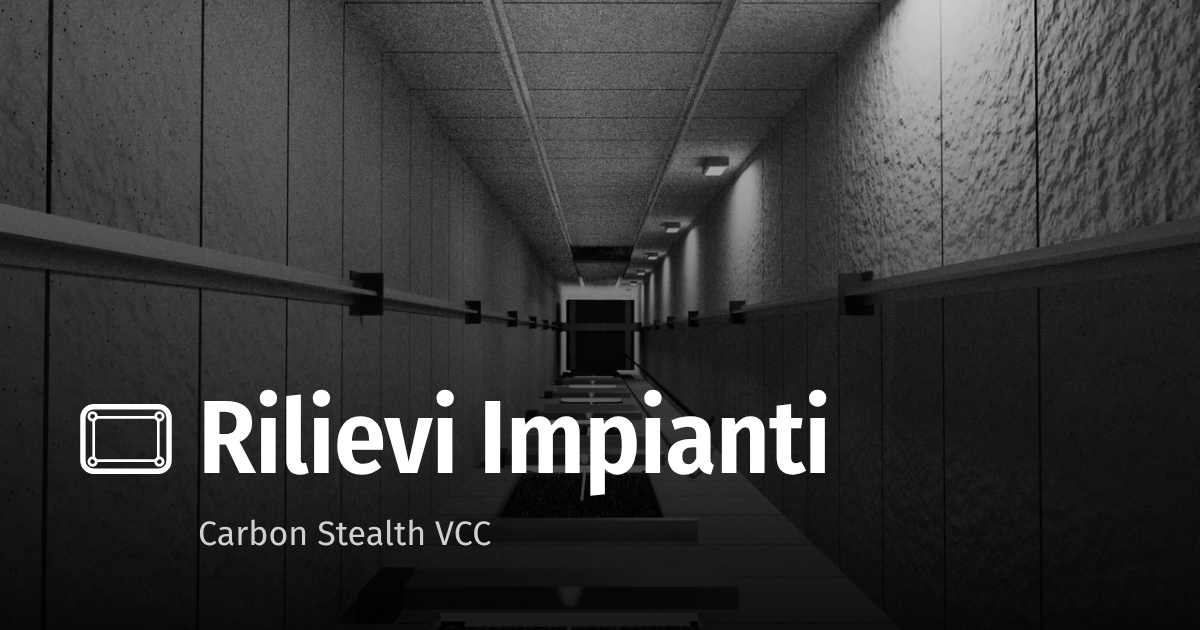
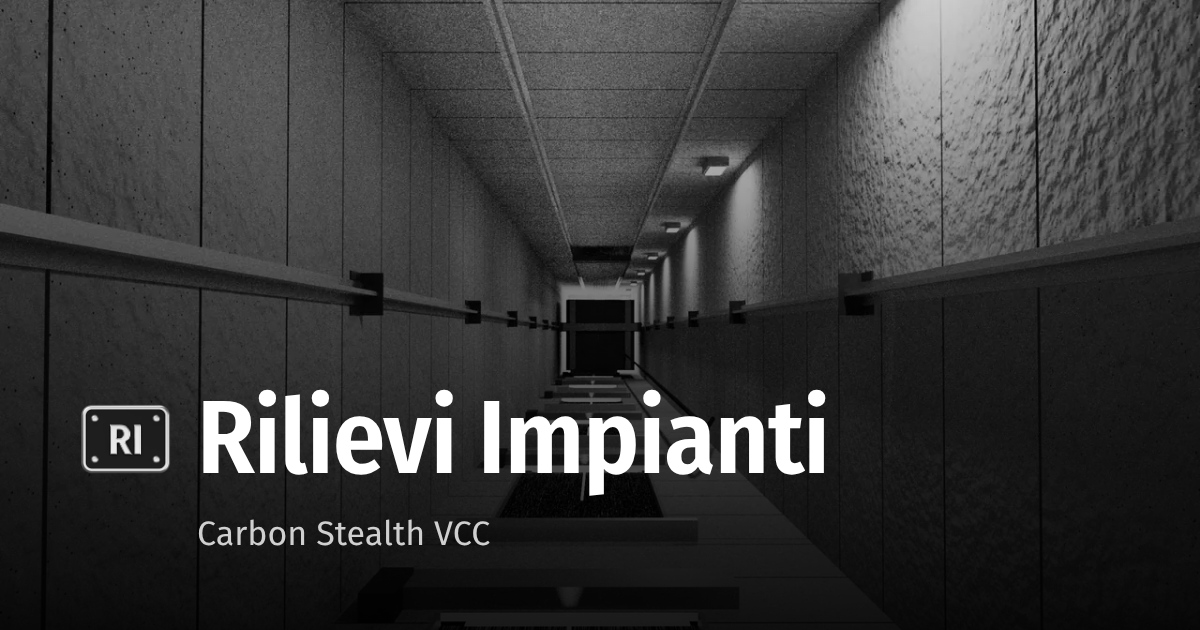
feat(rilievi): нова марка — табела „RI“, рендерирана като снимка (не SVG)
Собственикът (31 октомври 2026): „un logo (non svg) da mettere nello header
e nel footer … per il livello enterprise A+++“. От три концепции избра
„Targa nera“, името остава текст.

- scripts/logo/logo.py: табела като тази на асансьора — стоманена рамка
  около черен сатенен емайл, четири винта, релефни букви „RI“ (Fira Sans
  Condensed Bold) — карта на височините → мрежа → Mitsuba (като снимките на
  витрината), правоъгълна камера, прозрачен фон.
- scripts/logo/encode.mjs (`npm run brand:logo`): WebP с алфа за 36 и 48 px
  (1x/2x/3x) и иконките favicon-32/192.png.
- brandmark.ejs е `<img>` с srcset: 36 px в лентите и на входа, 48 px в
  долната част на витрината; името до нея остава текст и следва темите.
- Иконката на раздела — PNG от същия рендер (favicon.svg е махнат,
  /favicon.ico → favicon-32.png); og.png и apple-touch-icon.png — с новата
  марка (`npm run brand:images`).
- tests/marchio.test.ts: всеки файл от srcset в размера си, с прозрачност,
  без излишни; иконките — квадратни, с празни ъгли.

Claude-Session: https://claude.ai/code/session_01DzVwt4nEBuTWzpC9Lqg554

diff --git a/rilievi/tests/marchio.test.ts b/rilievi/tests/marchio.test.ts
@@ -1,0 +1,69 @@
+// The brand mark (the owner, 31 October 2026 — a picture, not an SVG): the plate rendered by scripts/logo,
+// in the bars, at the sign-in and in the footer of the landing, 1x/2x/3x; the tab icons from the same
+// render. Every file the partial asks for exists at the size it says, with transparency around the plate.
+import assert from 'node:assert/strict';
+import { existsSync, readdirSync } from 'node:fs';
+import { join } from 'node:path';
+import { describe, it } from 'node:test';
+import ejs from 'ejs';
+import sharp from 'sharp';
+
+const ROOT = join(import.meta.dirname, '..');
+const PUBLIC = join(ROOT, 'public');
+const PARTIAL = join(ROOT, 'views', 'partials', 'brandmark.ejs');
+
+/** The file on disk behind a `/static/…?v=` address. */
+const fileOf = (address: string): string =>
+  join(PUBLIC, address.replace(/^\/static\//, '').replace(/\?.*$/, ''));
+
+const render = (locals: Record<string, unknown>): Promise<string> =>
+  ejs.renderFile(PARTIAL, { v: 'test', ...locals });
+
+describe('the brand mark', () => {
+  for (const [locals, height] of [
+    [{}, 36],
+    [{ marchio: 48 }, 48],
+    [{ marchio: 'anything else' }, 36],
+  ] as const) {
+    it(`is a ${height} px picture with every density on disk (${JSON.stringify(locals)})`, async () => {
+      const html = await render(locals);
+      assert.match(html, /^<img class="brand__mark[^"]*" /);
+      assert.ok(!/<svg/.test(html), 'not an SVG');
+      assert.match(
+        html,
+        new RegExp(`width="${Math.round(height * 1.3)}" height="${height}" alt=""`),
+      );
+      const addresses = [
+        html.match(/ src="([^"]+)"/)![1]!,
+        ...html
+          .match(/ srcset="([^"]+)"/)![1]!
+          .split(', ')
+          .map((part) => part.split(' ')[0]!),
+      ];
+      assert.equal(addresses.length, 3);
+      for (const [i, address] of addresses.entries()) {
+        const file = fileOf(address);
+        assert.ok(existsSync(file), `${file} is missing: npm run brand:logo`);
+        const meta = await sharp(file).metadata();
+        assert.equal(meta.height, height * (i + 1), file);
+        assert.equal(meta.width, Math.round(height * (i + 1) * 1.3), file);
+        assert.ok(meta.hasAlpha, `${file}: no transparency`);
+      }
+    });
+  }
+
+  it('leaves no file in public/img/brand that the partial does not ask for', () => {
+    const asked = [36, 72, 108, 48, 96, 144].map((h) => `marchio-${h}.webp`).sort();
+    assert.deepEqual(readdirSync(join(PUBLIC, 'img', 'brand')).sort(), asked);
+  });
+
+  it('gives the tab icons from the same render: square, transparent, corners empty', async () => {
+    for (const size of [32, 192]) {
+      const file = join(PUBLIC, 'img', `favicon-${size}.png`);
+      const { data, info } = await sharp(file).raw().toBuffer({ resolveWithObject: true });
+      assert.deepEqual([info.width, info.height, info.channels], [size, size, 4], file);
+      assert.equal(data[3], 0, `${file}: the corner is not transparent`);
+    }
+    assert.ok(!existsSync(join(PUBLIC, 'img', 'favicon.svg')), 'the old SVG icon is gone');
+  });
+});

diff --git a/rilievi/public/css/base.css b/rilievi/public/css/base.css
@@ -194,15 +194,14 @@ mark {
   height: 20px;
 }
 
-/* Марката (табела с четири винта) — в лентата, на входа и във витрината. */
+/* Марката (табела „RI“, картинка — scripts/logo) — в лентата, на входа и във витрината. */
 .brand__mark {
   flex: none;
-  width: 34px;
-  height: 26px;
+  width: 47px;
+  height: 36px;
 }
 
-.brand__mark rect,
-.brand__mark circle {
-  fill: none;
-  stroke: currentColor;
+.brand__mark--48 {
+  width: 62px;
+  height: 48px;
 }

diff --git a/rilievi/src/routes/health.ts b/rilievi/src/routes/health.ts
@@ -17,5 +17,5 @@ healthRouter.get('/health', async (_req, res) => {
 });
 
 healthRouter.get('/favicon.ico', (_req, res) => {
-  res.redirect(301, '/static/img/favicon.svg');
+  res.redirect(301, '/static/img/favicon-32.png');
 });

diff --git a/rilievi/scripts/logo/logo.py b/rilievi/scripts/logo/logo.py
@@ -1,0 +1,216 @@
+"""The mark of Rilievi Impianti (the owner, 31 October 2026 — a picture, not an SVG; the "targa nera" chosen
+from three concepts): a lift data plate path-traced in Mitsuba 3, black and white, transparent background.
+
+The plate is a relief: a height field drawn with numpy and Pillow — a polished steel frame round a satin
+black enamel inlay, four slotted screws and the raised letters "RI" in Fira Sans Condensed Bold (OFL,
+from @fontsource) — turned into a mesh and lit like a product shot: a graded soft box behind the camera for
+the sheen of the flat steel, a key light from the top left and two rims for the edges. The camera is
+orthographic and straight on, so the outline is exact at every size.
+
+    cd scripts/render && .venv/bin/python ../logo/logo.py preview   # out/marchio.png, a few seconds
+    cd scripts/render && .venv/bin/python ../logo/logo.py final     # the master, 1331 × 1024, some minutes
+    npm run brand:logo                                               # (in rilievi/) master → public/img/brand
+
+Uses the venv of scripts/render (mitsuba, numpy, pillow — pinned in its requirements.txt).
+"""
+
+from __future__ import annotations
+
+import sys
+import tempfile
+import time
+from pathlib import Path
+
+import mitsuba as mi
+import numpy as np
+from PIL import Image, ImageDraw, ImageFont
+
+mi.set_variant('llvm_ad_mono')
+
+HERE = Path(__file__).resolve().parent
+OUT = HERE / 'out'
+FONT = HERE.parents[1] / 'node_modules/@fontsource/fira-sans-condensed/files/fira-sans-condensed-latin-700-normal.woff'
+T = mi.ScalarTransform4f
+# The plate is 1.3 : 1; the camera sees half a width of CAM on each side (the plate is 1 wide): 2 % margin.
+ASPECT = 1.3
+CAM = 0.51
+
+
+def smoothstep(e0: float, e1: float, x: np.ndarray) -> np.ndarray:
+    t = np.clip((x - e0) / (e1 - e0), 0, 1)
+    return t * t * (3 - 2 * t)
+
+
+def blur(a: np.ndarray, sigma: float) -> np.ndarray:
+    """Separable Gaussian blur, edges clamped."""
+    r = max(1, int(3 * sigma))
+    k = np.exp(-0.5 * (np.arange(-r, r + 1) / sigma) ** 2)
+    k /= k.sum()
+    out = a.astype(np.float32)
+    for axis in (0, 1):
+        padded = np.pad(out, [(r, r) if i == axis else (0, 0) for i in range(2)], mode='edge')
+        n = out.shape[axis]
+        out = sum(w * np.take(padded, np.arange(i, i + n), axis=axis) for i, w in enumerate(k))
+    return out.astype(np.float32)
+
+
+def letters(text: str, w: int, h: int, cx: float, cy: float, cap: float) -> np.ndarray:
+    """A 0..1 mask of `text` with a cap height of `cap` px, centred on (cx, cy); drawn 4x and reduced."""
+    s = 4
+    font = ImageFont.truetype(str(FONT), int(cap * s * 1.42))
+    img = Image.new('L', (w * s, h * s), 0)
+    draw = ImageDraw.Draw(img)
+    x0, y0, x1, y1 = draw.textbbox((0, 0), text, font=font)
+    draw.text((cx * s - (x0 + x1) / 2, cy * s - (y0 + y1) / 2), text, font=font, fill=255)
+    return np.asarray(img.resize((w, h), Image.LANCZOS), dtype=np.float32) / 255
+
+
+def rounded_rect_sdf(xx, yy, cx, cy, hw, hh, r):
+    """Signed distance to a rounded rectangle, negative inside."""
+    qx = np.abs(xx - cx) - (hw - r)
+    qy = np.abs(yy - cy) - (hh - r)
+    return np.hypot(np.maximum(qx, 0), np.maximum(qy, 0)) + np.minimum(np.maximum(qx, qy), 0) - r
+
+
+def plate(w: int, h: int):
+    """The height field (in width units), the steel mask (1 steel, 0 enamel) and the outline (0..1)."""
+    yy, xx = np.mgrid[0:h, 0:w].astype(np.float32)
+    cx, cy, hw, hh = w / 2, h / 2, w / 2 - 2, h / 2 - 2
+    d = rounded_rect_sdf(xx, yy, cx, cy, hw, hh, h * 0.16)
+    inside = smoothstep(1.0, -1.0, d)
+    depth = -d / w  # distance from the edge, width units
+    # The edge rounds over in a quarter circle; the frame is steel; inside it the inlay sits a step lower.
+    edge = 0.05 * np.sqrt(np.clip(1 - (1 - np.clip(depth / 0.035, 0, 1)) ** 2, 0, 1))
+    frame = 1 - smoothstep(0.048, 0.054, depth)
+    step = smoothstep(0.050, 0.056, depth)
+    screws = np.zeros_like(xx)
+    for sx in (-1, 1):
+        for sy in (-1, 1):
+            px, py = cx + sx * (hw - h * 0.2), cy + sy * (hh - h * 0.2)
+            r = np.hypot(xx - px, yy - py) / (h * 0.05)
+            dome = np.sqrt(np.clip(1 - r * r, 0, 1))
+            slot = (np.abs((xx - px) + sy * sx * (yy - py)) < h * 0.011) & (r < 0.85)
+            screws = np.maximum(screws, dome * np.where(slot, 0.35, 1.0))
+    glyphs = letters('RI', w, h, cx, cy + h * 0.01, h * 0.44)
+    bevel = blur(glyphs, h * 0.009)
+    # The faces of the letters bulge a little, so they catch the grading of the soft box like polished metal.
+    pillow = blur(glyphs, h * 0.05) * bevel
+    height = edge - step * 0.006 + screws * 0.016 + bevel * 0.016 + pillow * 0.008
+    steel = np.clip(frame + (screws > 0.02) + glyphs, 0, 1)
+    return height * inside, steel, inside
+
+
+def write_ply(path: Path, height: np.ndarray, inside: np.ndarray, step: int) -> None:
+    """The height field as a binary PLY: a vertex every `step` pixels, faces only inside the outline."""
+    h, w = height.shape
+    gy, gx = np.meshgrid(np.arange(0, h, step), np.arange(0, w, step), indexing='ij')
+    z = height[gy, gx]
+    ins = inside[gy, gx] > 0.5
+    pos = np.stack([(gx - w / 2) / w, -(gy - h / 2) / w, z], axis=-1).reshape(-1, 3)
+    uv = np.stack([gx / (w - 1), 1 - gy / (h - 1)], axis=-1).reshape(-1, 2)
+    ny, nx = gy.shape
+    idx = np.arange(ny * nx).reshape(ny, nx)
+    a, b, c, d = idx[:-1, :-1], idx[:-1, 1:], idx[1:, :-1], idx[1:, 1:]
+    keep = (ins[:-1, :-1] & ins[:-1, 1:] & ins[1:, :-1] & ins[1:, 1:]).ravel()
+    tris = np.concatenate([np.stack([a, c, b], -1).reshape(-1, 3)[keep],
+                           np.stack([b, c, d], -1).reshape(-1, 3)[keep]])
+    vert = np.zeros(len(pos), dtype=[('x', '<f4'), ('y', '<f4'), ('z', '<f4'), ('u', '<f4'), ('v', '<f4')])
+    vert['x'], vert['y'], vert['z'] = pos[:, 0], pos[:, 1], pos[:, 2]
+    vert['u'], vert['v'] = uv[:, 0], uv[:, 1]
+    face = np.zeros(len(tris), dtype=[('n', 'u1'), ('i', '<i4', (3,))])
+    face['n'], face['i'] = 3, tris
+    head = (f'ply\nformat binary_little_endian 1.0\nelement vertex {len(vert)}\n'
+            'property float x\nproperty float y\nproperty float z\nproperty float u\nproperty float v\n'
+            f'element face {len(face)}\nproperty list uchar int vertex_indices\nend_header\n')
+    with open(path, 'wb') as f:
+        f.write(head.encode('ascii'))
+        f.write(vert.tobytes())
+        f.write(face.tobytes())
+
+
+def mask_texture(values: np.ndarray) -> dict:
+    data = np.clip(values, 0, 1).astype(np.float32)[::-1].copy()[..., None]
+    return {'type': 'bitmap', 'bitmap': mi.Bitmap(data, pixel_format=mi.Bitmap.PixelFormat.Y),
+            'raw': True, 'filter_type': 'bilinear', 'wrap_mode': 'clamp'}
+
+
+def light(at, size, radiance: float) -> dict:
+    """A rectangular area light at `at`, facing the plate."""
+    return {'type': 'rectangle',
+            'to_world': T().look_at(origin=list(at), target=[0, 0, 0], up=[0, 1, 0]) @ T().scale([size[0] / 2, size[1] / 2, 1]),
+            'emitter': {'type': 'area', 'radiance': {'type': 'uniform', 'value': radiance}}}
+
+
+def scene(mesh: Path, steel_mask: np.ndarray, width: int, height: int) -> dict:
+    steel = {'type': 'roughconductor', 'distribution': 'ggx', 'alpha': 0.12,
+             'specular_reflectance': {'type': 'uniform', 'value': 0.92}}
+    # Satin black enamel: a weak, wide reflection, so the flat stays black under the soft box.
+    enamel = {'type': 'roughplastic', 'distribution': 'ggx', 'alpha': 0.22,
+              'specular_reflectance': {'type': 'uniform', 'value': 0.35},
+              'diffuse_reflectance': {'type': 'uniform', 'value': 0.02}}
+    # The soft box behind the camera, graded from the top down: the sheen on the flat steel.
+    ramp = (np.linspace(1.0, 0.0, 256, dtype=np.float32) ** 1.6 * 2.6 + 0.12)[:, None].repeat(8, 1)
+    softbox = {'type': 'rectangle',
+               'to_world': T().look_at(origin=[0, 0.25, 3.5], target=[0, 0, 0], up=[0, 1, 0]) @ T().scale([2.2, 2.2, 1]),
+               'emitter': {'type': 'area', 'radiance': {'type': 'bitmap', 'raw': True,
+                           'bitmap': mi.Bitmap(ramp[..., None], pixel_format=mi.Bitmap.PixelFormat.Y)}}}
+    return {
+        'type': 'scene',
+        'integrator': {'type': 'path', 'max_depth': 8, 'hide_emitters': True},
+        'sensor': {
+            'type': 'orthographic',
+            # In front of the soft box (z = 3.5), which must not hide the plate.
+            'to_world': T().look_at(origin=[0, 0, 2], target=[0, 0, 0], up=[0, 1, 0]) @ T().scale([CAM, CAM, 1]),
+            'film': {'type': 'hdrfilm', 'width': width, 'height': height, 'pixel_format': 'luminance_alpha',
+                     'rfilter': {'type': 'gaussian'}},
+            'sampler': {'type': 'multijitter', 'sample_count': 16},
+        },
+        'plate': {'type': 'ply', 'filename': str(mesh),
+                  'bsdf': {'type': 'blendbsdf', 'weight': mask_texture(steel_mask), 'bsdf_0': enamel, 'bsdf_1': steel}},
+        'softbox': softbox,
+        'key': light([-2.2, 2.4, 1.6], (1.6, 1.6), 9.0),
+        'rim_right': light([2.6, -0.6, 0.8], (0.4, 2.4), 7.0),
+        'rim_top': light([0.4, 2.8, 0.5], (2.4, 0.3), 6.0),
+        'fill': {'type': 'constant', 'radiance': {'type': 'uniform', 'value': 0.06}},
+    }
+
+
+def render(out_height: int, spp: int, field_height: int) -> Path:
+    fw, fh = round(field_height * ASPECT), field_height
+    height_field, steel_mask, inside = plate(fw, fh)
+    out_w = round(out_height * ASPECT)
+    with tempfile.TemporaryDirectory() as tmp:
+        mesh = Path(tmp) / 'plate.ply'
+        write_ply(mesh, height_field, inside, step=2)
+        sc = mi.load_dict(scene(mesh, steel_mask, out_w, out_height))
+        started = time.time()
+        acc = np.zeros((out_height, out_w, 2), np.float64)
+        passes = max(1, spp // 16)
+        for i in range(passes):
+            acc += np.array(mi.render(sc, spp=16, seed=i), dtype=np.float64)
+        print(f'marchio: {out_w}×{out_height}, {spp} spp, {time.time() - started:.0f} s', flush=True)
+    img = acc / passes
+    lum, alpha = img[..., 0], np.clip(img[..., 1], 0, 1)
+    # Linear → display: unpremultiplied by alpha, a filmic shoulder, then the sRGB curve.
+    lum = np.where(alpha > 1e-4, lum / np.maximum(alpha, 1e-4), 0)
+    v = np.clip((lum * (2.51 * lum + 0.03)) / (lum * (2.43 * lum + 0.59) + 0.14), 0, 1)
+    v = np.where(v <= 0.0031308, 12.92 * v, 1.055 * np.power(v, 1 / 2.4) - 0.055)
+    OUT.mkdir(exist_ok=True)
+    path = OUT / 'marchio.png'
+    # Grey + alpha, 8 bits: the page shows it at most 150 px tall, the reduction smooths every step.
+    Image.fromarray(np.clip(np.stack([v, alpha], -1) * 255 + 0.5, 0, 255).astype(np.uint8)).save(path)
+    return path
+
+
+def main() -> None:
+    mode = sys.argv[1] if len(sys.argv) > 1 else 'preview'
+    if mode == 'preview':
+        print(render(out_height=360, spp=64, field_height=1000))
+    elif mode == 'final':
+        print(render(out_height=1024, spp=1024, field_height=2000))
+    else:
+        raise SystemExit('usage: logo.py preview|final')
+
+
+if __name__ == '__main__':
+    main()
